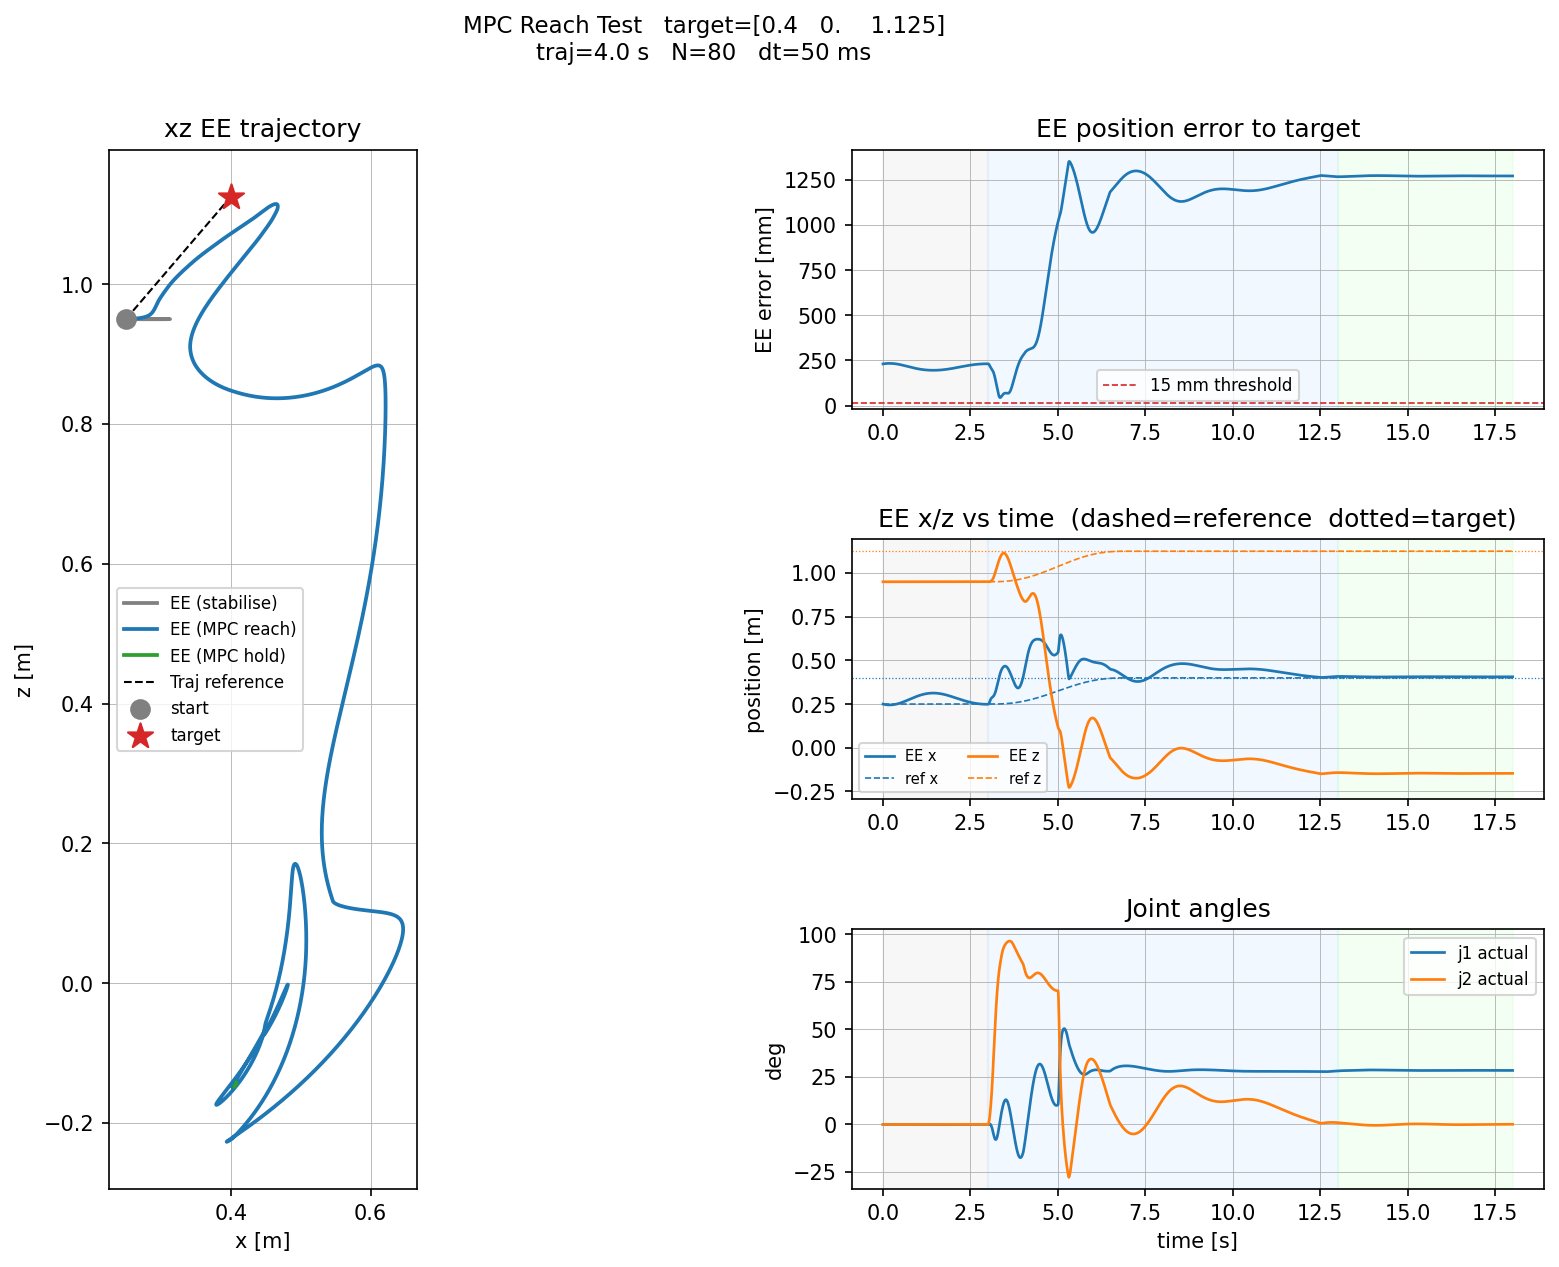
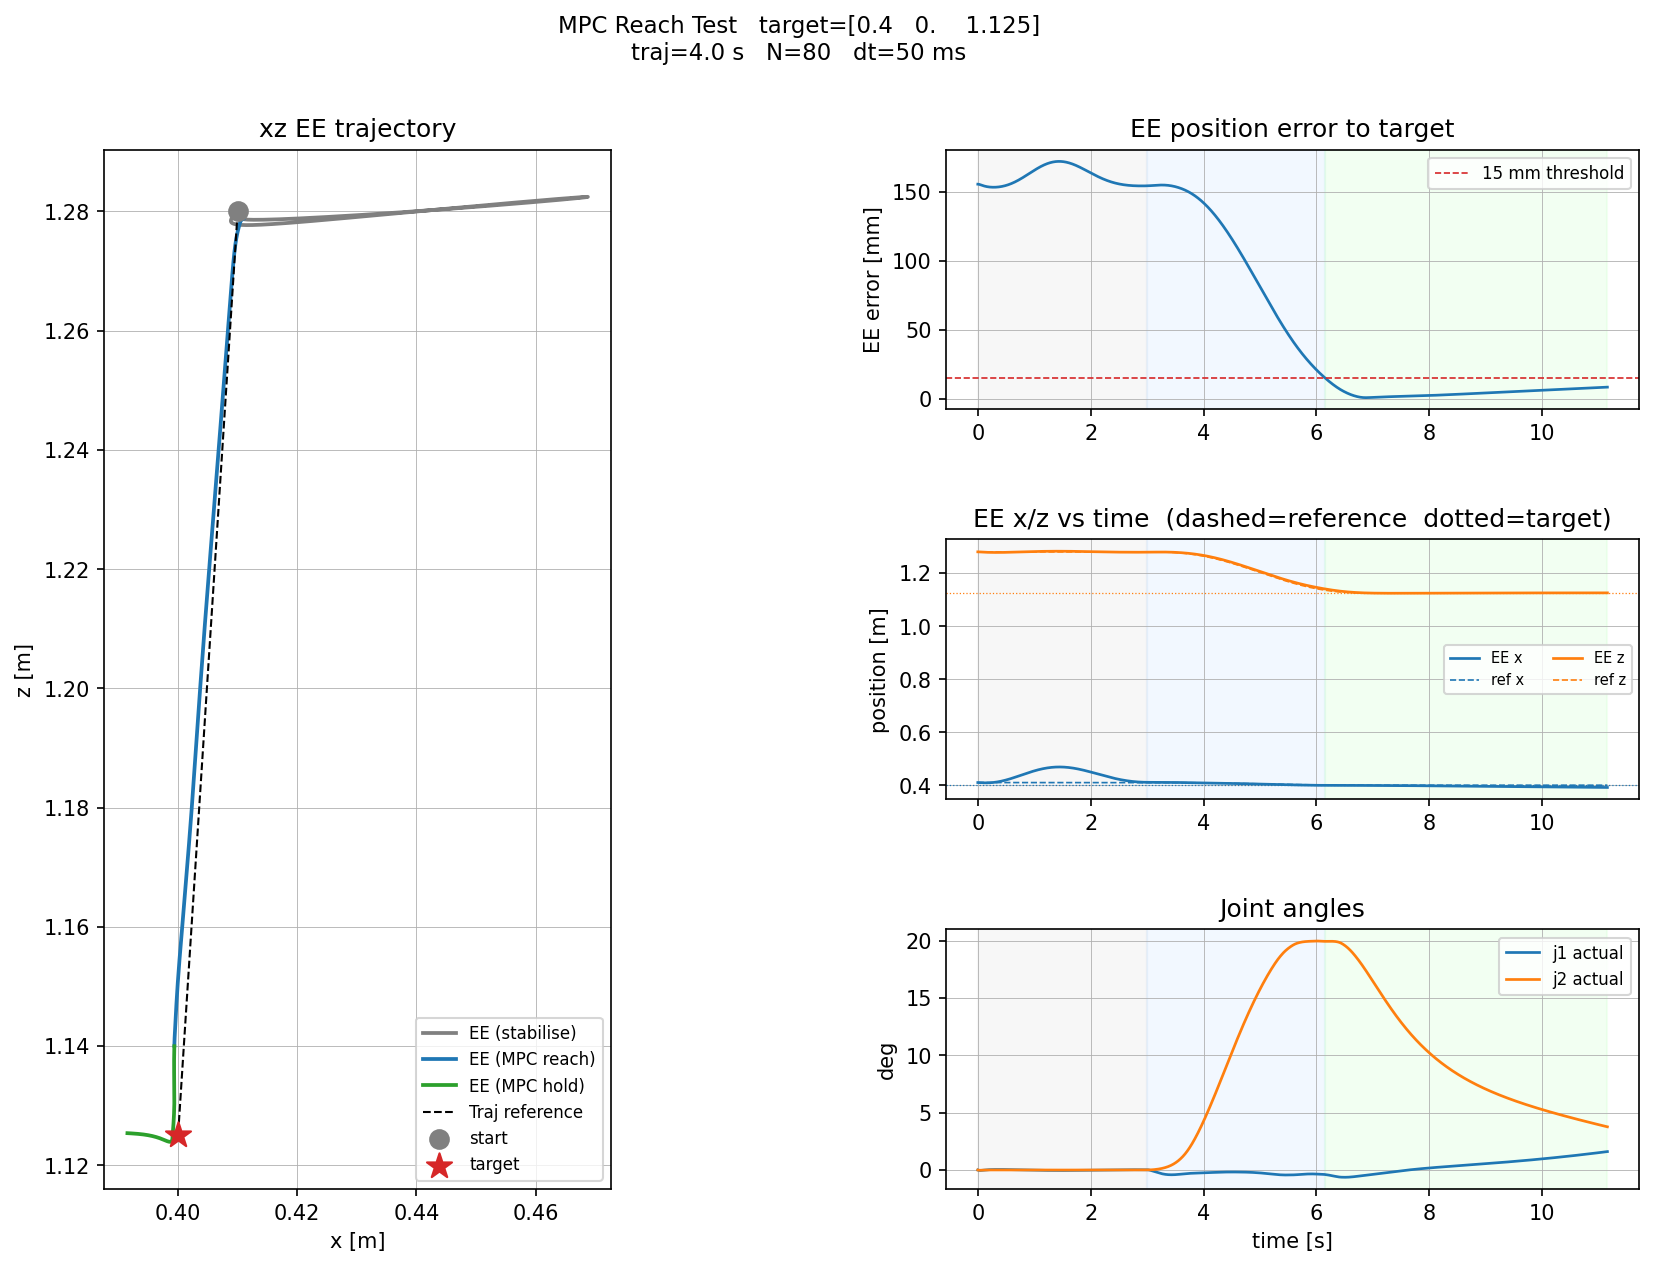
fix config mismatch and torque compensation

diff --git a/basic/view_model.py b/basic/view_model.py
@@ -1,0 +1,89 @@
+"""View the aerial manipulator XML model in the MuJoCo interactive viewer.
+
+Run:
+    conda activate mjc
+    python basic/view_model.py
+
+Viewer keyboard shortcuts (press inside the viewer window):
+    J       — toggle joint axes display
+    A       — toggle actuator display (shows actuator frames)
+    F       — toggle contact forces
+    C       — toggle contact points
+    V       — toggle transparent rendering (see inertia ellipsoids)
+    I       — toggle inertia ellipsoids
+    T       — toggle tendons
+    Space   — pause / resume simulation
+    Arrows  — rotate camera
+    Scroll  — zoom
+    Right-click drag — pan
+    Left-click drag  — rotate
+
+To inspect a specific joint axis:
+    1. Press J to show all joint axes as coloured arrows.
+       Red = local x, Green = local y (rotation axis for hinge), Blue = local z.
+    2. Double-click a body to select it and read its name in the status bar.
+"""
+
+import sys
+import os
+import numpy as np
+import mujoco
+import mujoco.viewer
+
+_ROOT = os.path.join(os.path.dirname(__file__), '..')
+sys.path.insert(0, _ROOT)
+
+XML_PATH = os.path.join(os.path.dirname(__file__), 'model', 'am_robot.xml')
+
+
+def print_joint_info(model):
+    print("\n=== Joint info ===")
+    for i in range(model.njnt):
+        name  = mujoco.mj_id2name(model, mujoco.mjtObj.mjOBJ_JOINT, i)
+        jtype = model.jnt_type[i]
+        axis  = model.jnt_axis[i]          # axis in LOCAL body frame
+        pos   = model.jnt_pos[i]           # joint origin in LOCAL body frame
+        body  = model.jnt_bodyid[i]
+        bname = mujoco.mj_id2name(model, mujoco.mjtObj.mjOBJ_BODY, body)
+        type_names = {0: 'free', 1: 'ball', 2: 'slide', 3: 'hinge'}
+        print(f"  [{i}] {name:30s}  type={type_names.get(jtype,'?'):6s}"
+              f"  body={bname:15s}"
+              f"  axis={np.round(axis,4)}  pos={np.round(pos,4)}")
+
+    print("\n=== Body world poses at zero config ===")
+    mj_data = mujoco.MjData(model)
+    mujoco.mj_resetData(model, mj_data)
+    # Put drone at a visible height
+    mj_data.qpos[2] = 1.5
+    mujoco.mj_forward(model, mj_data)
+    for i in range(model.nbody):
+        name = mujoco.mj_id2name(model, mujoco.mjtObj.mjOBJ_BODY, i)
+        pos  = mj_data.xpos[i]
+        R    = mj_data.xmat[i].reshape(3, 3)
+        print(f"  {name:20s}  pos={np.round(pos,4)}  x_axis={np.round(R[:,0],3)}")
+
+
+def main():
+    model = mujoco.MjModel.from_xml_path(XML_PATH)
+    data  = mujoco.MjData(model)
+
+    print_joint_info(model)
+
+    # Place drone at a comfortable hover height
+    mujoco.mj_resetData(model, data)
+    data.qpos[2] = 1.5        # z = 1.5 m
+    data.qpos[3] = 1.0        # quaternion w = 1 (level)
+    mujoco.mj_forward(model, data)
+
+    print("\nOpening viewer — press J to toggle joint axes.")
+    with mujoco.viewer.launch_passive(model, data) as v:
+        # Enable joint axis visualisation by default
+        v.opt.flags[mujoco.mjtVisFlag.mjVIS_JOINT] = True
+        v.sync()
+        while v.is_running():
+            mujoco.mj_step(model, data)
+            v.sync()
+
+
+if __name__ == '__main__':
+    main()

diff --git a/demo/mpc_controller.py b/demo/mpc_controller.py
@@ -332,14 +332,31 @@ class MPCController:
             generate=build_flag,
         )
 
+        # Gravity compensation torques at L-shape (θ₁=θ₂=0, XML zero config).
+        # At this config:
+        #   - link1 COM is directly below joint1 → zero moment arm → τ_j1 from link1 = 0
+        #   - link2+EE COM is at +com_x along world +x from joint2
+        #     → torque about z₀=[0,+1,0]_world = m₂·g·com_x about both joints
+        # Required motor torque (positive counteracts gravity for +θ₂ = dip down):
+        _m2  = model.links[1].mass
+        _cx2 = model.links[1].com_offset[0]   # 0.12727 m
+        _tau = _m2 * 9.81 * _cx2              # ≈ 0.274 Nm magnitude
+        # At L-shape (θ=0 XML), link2+EE COM is at x_com=0.127m forward of mount.
+        # This creates a gravity pitch torque on the platform of −m·g·x_com about world +y.
+        # Both the joint motors AND the platform rotors must compensate:
+        #   τ_j (both joints) = −0.274 Nm  (hold arm up)
+        #   τ_ext[1] (platform pitch) = −0.274 Nm  (counter arm moment on drone body)
+        self._tau_grav     = np.array([-_tau, -_tau])        # [τ_j1, τ_j2]
+        self._tau_ext_grav = np.array([0.0, -_tau, 0.0])     # platform pitch compensation
+
         # Warm-start arrays  (N+1 states, N inputs)
         self._x_init = np.zeros((N + 1, self.nx))
         self._u_init = np.zeros((N,     self.nu))
 
-        # Add gravity-compensating hover force as default u_init
-        g    = 9.81
-        mass = model.total_mass
-        self._u_init[:, 2] = mass * g   # F_ext_z to hover
+        # Gravity-compensating warm-start: hover force + pitch compensation + arm torques
+        self._u_init[:, 2]   = model.total_mass * 9.81  # F_ext_z
+        self._u_init[:, 3:6] = self._tau_ext_grav        # tau_ext: platform pitch hold
+        self._u_init[:, 6:8] = self._tau_grav            # tau_j1, tau_j2
 
         self._initialized = False
         self._enable_tc   = enable_terminal_constraint
@@ -361,10 +378,12 @@ class MPCController:
             p_ref = self.traj._p(t_k)          # (3,)
 
             # Stage reference  [p_EE(3), v_A(3)=0, omega_A(3)=0, u(8)=hover]
-            # u starts at index 9: u[0]=F_ext_x, u[1]=F_ext_y, u[2]=F_ext_z
+            # u layout in y: F_ext(3) at y[9:12], tau_ext(3) at y[12:15], tau_j(2) at y[15:17]
             yref_k          = np.zeros(self._ny)
             yref_k[0:3]     = p_ref
-            yref_k[11]      = self.model.total_mass * 9.81  # F_ext_z: hover (index 9+2=11)
+            yref_k[11]      = self.model.total_mass * 9.81  # F_ext_z hover
+            yref_k[13]      = self._tau_ext_grav[1]         # platform pitch hold (tau_ext_y)
+            yref_k[15:17]   = self._tau_grav                # gravity-compensating joint torques
             self._solver.cost_set(k, 'yref', yref_k)
 
         # Terminal reference  [p_EE_final(3), v_A=0, omega_A=0]

diff --git a/ams/inertia_check.py b/ams/inertia_check.py
@@ -71,7 +71,14 @@ def main():
     print('\n[Link 1]')
     m_xml, I_xml = get_body_props(mj_model, 'link1')
     compare('mass [kg]',       am.links[0].mass,              m_xml, TOL_MASS)
-    compare('inertia [kg·m²]', np.diag(am.links[0].inertia), I_xml, TOL_INERTIA)
+    # model.py inertia is in DH {1} frame; XML body_inertia is in link1 body frame.
+    # At θ=0: link1 body = world frame.  Rotate I_xml → DH {1} using R[1] from FK.
+    from ams.kinematics import forward_kinematics as _fk
+    _R1, _, _ = _fk(am, np.array([0.,0.,0.,1.]), np.zeros(3), np.zeros(2))
+    _I_link1_body = np.diag(I_xml)                        # in link1 body (= world at θ=0)
+    _I_link1_DH   = _R1[1].T @ _I_link1_body @ _R1[1]   # in DH {1} frame
+    compare('inertia in DH frame [kg·m²]', np.diag(am.links[0].inertia),
+            np.diag(_I_link1_DH), TOL_INERTIA)
 
     # ── Link 2 + EE combined inertia via parallel axis theorem ──────────────
     print('\n[Link 2 + EE combined  (parallel axis theorem)]')
@@ -187,6 +194,13 @@ def main():
     print(f'  Expected at θ=0: EE should be ~[0, 0, -(0.05+0.12+0.16)] = [0,0,-0.33] ...')
     print(f'  (exact depends on mount_rotation and DH frame alignment)')
 
+    # FK p[3] = EE body origin.  The 'end_effector' MuJoCo site is at pos="0.078 0 0"
+    # in the ee body frame (= along x of DH frame {3}).  Add site offset along R[3].
+    from ams.kinematics import forward_kinematics as _fk2
+    _R_fk, _, _ = _fk2(am, quat, pos, theta)
+    SITE_OFFSET  = np.array([0.078, 0.0, 0.0])   # in DH {3} / ee body frame
+    ee_fk_site   = p[3] + _R_fk[3] @ SITE_OFFSET
+
     # Check with MuJoCo at same configuration
     mj_data = mujoco.MjData(mj_model)
     mujoco.mj_resetData(mj_model, mj_data)
@@ -197,15 +211,13 @@ def main():
     site_id = mujoco.mj_name2id(mj_model, mujoco.mjtObj.mjOBJ_SITE, 'end_effector')
     ee_mj   = mj_data.site_xpos[site_id].copy()
     print(f'\n  MuJoCo end_effector site at same config: {np.round(ee_mj, 4)}')
-    fk_err = np.linalg.norm(p[3] - ee_mj)
+    print(f'  FK p[3] (EE body origin)               : {np.round(p[3], 4)}')
+    print(f'  FK p[3] + site offset [0.078,0,0]      : {np.round(ee_fk_site, 4)}')
+    fk_err = np.linalg.norm(ee_fk_site - ee_mj)
     print(f'  FK vs MuJoCo EE error: {fk_err*1000:.1f} mm  '
           f'{"  OK (<10mm)" if fk_err < 0.01 else "  *** LARGE ERROR ***"}')
 
     print('\n' + '=' * 70)
-    print('To fix remaining mismatches:')
-    print('  1. Update inertia tensors in ams/model.py to match XML diaginertia values.')
-    print('  2. Consider setting link2 a=0.238 to align FK p[3] with the EE site.')
-    print('=' * 70)
 
 
 if __name__ == '__main__':

diff --git a/ams/model.py b/ams/model.py
@@ -55,14 +55,18 @@ class AerialManipulatorModel:
     mount_offset: np.ndarray = field(
         default_factory=lambda: np.array([0.0, 0.0, -0.05])     # in platform frame
     )
-    # Arm base frame {0} rotation (platform → arm base)
-    # In platform coords: x_0 = [0,0,-1] (down), y_0 = [1,0,0] (fwd), z_0 = [0,-1,0] (right)
-    # z_0 is the joint rotation axis; +θ swings arm forward
+    # Arm base frame {0} rotation (platform → arm base)  [Option 4 — matches XML]
+    # Derived from XML: joint axis="0 1 0" (local y of link1 body = world +y at hover)
+    # and link1 geom fromto="0 0 0  0 0 -0.12" (link direction = world −z).
+    #   x₀ = [0, 0, -1]_A  (down   — link 1 direction at θ₁=0)
+    #   y₀ = z₀ × x₀       (backward — completes right-hand frame)
+    #   z₀ = [0, +1, 0]_A  (left   — DH joint axis = XML joint axis)
+    # Columns of mount_rotation are x₀, y₀, z₀ expressed in {A}.
     mount_rotation: np.ndarray = field(
         default_factory=lambda: np.array([
-            [0.0,  1.0,  0.0],
-            [0.0,  0.0, -1.0],
-            [-1.0, 0.0,  0.0],
+            [ 0.0, -1.0,  0.0],
+            [ 0.0,  0.0,  1.0],
+            [-1.0,  0.0,  0.0],
         ])
     )
 
@@ -135,10 +139,13 @@ class AerialManipulatorModel:
                                   [0.0, 0.0, 1.0]]))
         p_local.append(np.zeros(3))
 
-        # {i} → {i+1} for i = 1, ..., n-1
-        # Uses link[i-1] (NAME 'link i') geometry (α, a, d) with joint angle θ_{i}
+        # {1} → {2}: link 1 geometry with joint angle θ₂.
+        # θ₂ offset of −π/2: at XML joint2=0 the link2 body points forward (+x world),
+        # but DH x₂ must equal x₁ (down) when θ₂_DH=0.  Solving R_mount·[cos θ, sin θ, 0]=
+        # [1,0,0] gives θ₂_DH = −π/2.  So θ₂_DH = θ₂_XML − π/2.
         for i in range(1, n):
-            R, p = self.links[i - 1].dh_transform(theta[i])
+            angle = theta[i] - (np.pi / 2 if i == 1 else 0.0)
+            R, p = self.links[i - 1].dh_transform(angle)
             R_local.append(R)
             p_local.append(p)
 

diff --git a/ams/casadi_dynamics.py b/ams/casadi_dynamics.py
@@ -130,8 +130,11 @@ def _ca_compute_link_transforms(model, theta):
     p_local.append(ca.DM.zeros(3, 1))
 
     # {i} → {i+1} for i = 1 … n-1  (uses link[i-1] geometry, joint angle theta[i])
+    # theta[1] has a -π/2 offset: DH convention sets θ=0 as collinear (straight),
+    # but the XML zero config is the L-shape (link2 horizontal), so θ₂_DH = θ₂_XML - π/2.
     for i in range(1, n):
-        R, p = _ca_dh_transform(model.links[i - 1], theta[i])
+        offset = np.pi / 2 if i == 1 else 0.0
+        R, p = _ca_dh_transform(model.links[i - 1], theta[i] - offset)
         R_local.append(R)
         p_local.append(p)
 

diff --git a/demo/mpc_single_step_debug.py b/demo/mpc_single_step_debug.py
@@ -29,7 +29,7 @@ from demo.mpc_controller import MPCController, _W_STAGE_DIAG, _W_TERMINAL_DIAG
 import casadi as ca
 
 # ── Config (match mpc_reach_test.py) ────────────────────────────────────────
-HOVER_START = np.array([0.25, 0.0, 1.45])
+HOVER_START = np.array([0.00, 0.0, 1.000])
 EE_TARGET   = np.array([0.40, 0.0, 1.125])
 N           = 20
 DT          = 0.05
